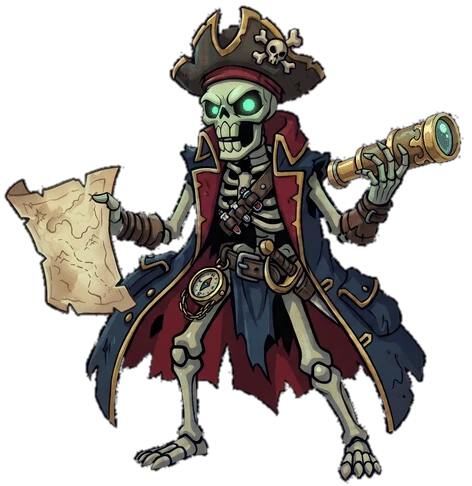
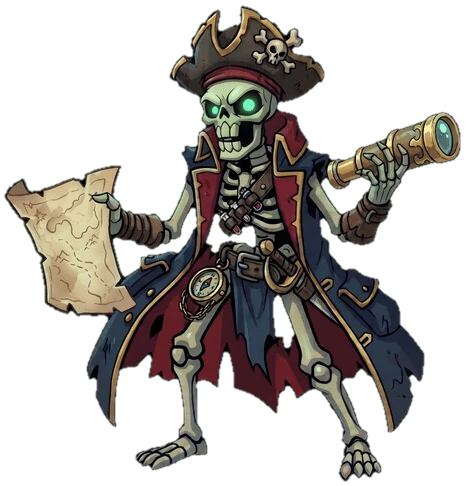
Pirate idle from the transparent GIF, without the black edge rim
The hero's idle (pirate-idle.webp) and its still are now made from
skeleton_idle_transparent.gif, using its own transparency minus the outermost ring:
both GIFs were cut from a black background, so that ring was near-black and showed
as a dark smudge around him. Placement numbers updated (he stands where he did).

Known issue, to fix in the GIF: it has see-through gaps that shouldn't be there, e.g.
inconsistent transparent gaps in his cloak that change from frame to frame (on the
to-do list in GHOST_DUELS_STATUS.md).

Changed region(s): [[0.03, 0.0, 0.9893, 1.0], [0.03, 0.4321, 0.1799, 0.6481], [0.1199, 0.4321, 0.1499, 0.463]]

diff --git a/ghost-duels-web/style.css b/ghost-duels-web/style.css
@@ -270,10 +270,10 @@ body::before { content: ""; position: fixed; inset: -8%; z-index: -1; pointer-ev
 .hero { position: absolute; left: 66%; top: 28.5%; width: 35.5%; aspect-ratio: 870 / 1010; pointer-events: none; }
 /* the pirate's idle spans the same width as the Lich King before him, so the map stays off the reels, and stands on the
    same line, where the dashboard hides his feet (numbers printed by newCharacterGhostPirate/make_idle.py) */
-.hero-fig { position: absolute; left: 5.89%; top: 17.57%; width: 90.11%; aspect-ratio: 472 / 486; transform-origin: 56.36% 99.18%; }
+.hero-fig { position: absolute; left: 5.88%; top: 16.87%; width: 90.13%; aspect-ratio: 467 / 486; transform-origin: 56.96% 98.97%; }
 .hero-img { position: relative; width: 100%; height: 100%; display: block; }
 /* a green glow pulsing behind the map */
-.hero-lamp { position: absolute; left: 15.04%; top: 49.38%; width: 42.71%; aspect-ratio: 1; translate: -50% -50%; border-radius: 50%;
+.hero-lamp { position: absolute; left: 15.2%; top: 49.38%; width: 43.17%; aspect-ratio: 1; translate: -50% -50%; border-radius: 50%;
   background: radial-gradient(closest-side, rgb(120 255 170 / .42), rgb(120 255 170 / .12) 60%, transparent); mix-blend-mode: screen;
   animation: heroLamp 1.7s ease-in-out infinite; }
 @keyframes heroLamp { 0%, 100% { scale: 1; filter: brightness(1); } 37% { scale: 1.05; filter: brightness(1.25); } 61% { scale: .97; filter: brightness(.9); } }

diff --git a/ghost-duels-web/game.js b/ghost-duels-web/game.js
@@ -1844,7 +1844,7 @@ async function boot() {
 }
 
 // ===== Ghost Pirate hero: his idle as an animated WebP (assets/pirate-idle.webp, 36 frames, a 3 s loop), made from
-// newCharacterGhostPirate/skeleton_idle_v3.gif by make_idle.py there. The browser plays it; reactions to the game (point,
+// newCharacterGhostPirate/skeleton_idle_transparent.gif by make_idle.py there. The browser plays it; reactions to the game (point,
 // cheer, laugh, gasp) lean, bounce, shake and light up the figure, and a green glow pulses behind his map. Reduced motion
 // shows the still first frame (assets/pirate-still.webp). =====
 function GhostKing(host) {

diff --git a/GHOST_DUELS_STATUS.md b/GHOST_DUELS_STATUS.md
@@ -49,6 +49,7 @@ Last updated: 2026-10-25. All work is on the `ghost-duels` branch, which is not 
 - [x] **25,000× max win in every mode** (SDK optimizer, see the table above).
 - [x] **`_UPLOAD_TO_STAKE` refreshed** (2026-10-25): the 96.00% math with all seven modes, and the frontend with the 6× boost and the new Lich King idle.
 - [x] **16:9 cover art:** `media/cover-16x9.png` (1920×1080), rendered from `media/cover-16x9.html`. The 3:4 game tile exists (kept outside the repo).
+- [ ] **Ghost Pirate idle: see-through gaps that shouldn't be there.** `skeleton_idle_transparent.gif` has transparent holes in the figure, e.g. inconsistent gaps in his cloak that differ from frame to frame. Fix them in the GIF, then rebuild `assets/pirate-idle.webp` and `pirate-still.webp` with `newCharacterGhostPirate/make_idle.py` (outside the repo; it prints the CSS placement).
 - [ ] **Ask Stake Engine (or check their docs):**
   - Do they accept a frontend that isn't built on their Svelte web-sdk?
   - What unit is `minimumRoundDuration`? The code assumes values under 100 are seconds and larger ones are milliseconds (`ghost-duels-web/rgs.js`).
